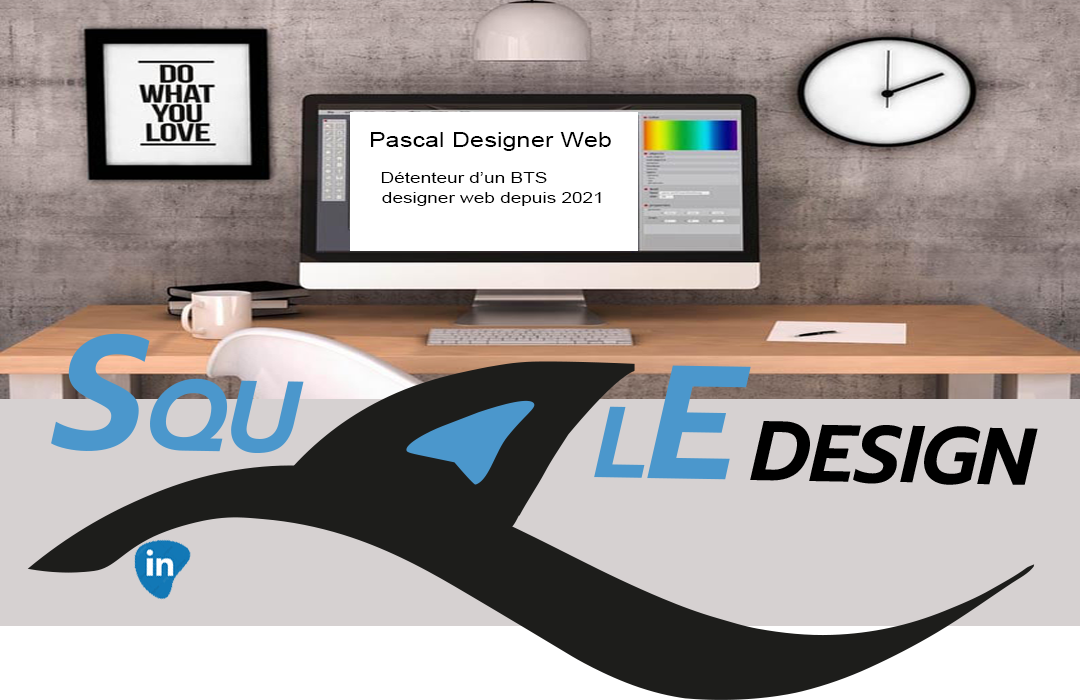
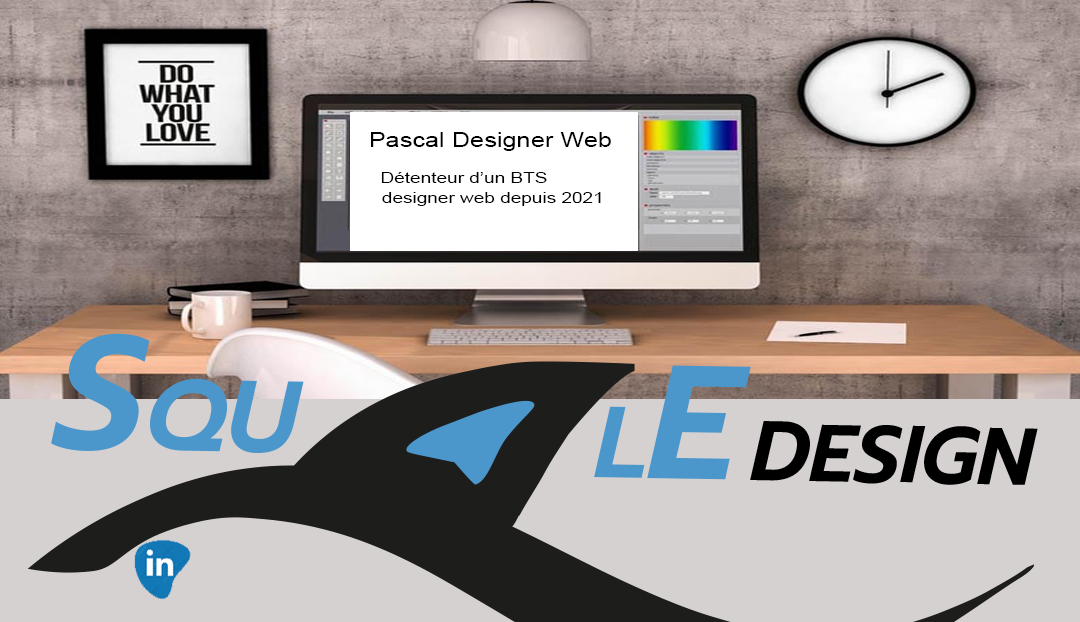
maj

diff --git a/Présentation mises en oeuvres/css/style.min.css b/Présentation mises en oeuvres/css/style.min.css
@@ -1,2 +1,2 @@
-*{-webkit-box-sizing:border-box;box-sizing:border-box}* img{margin:0%;width:100%}* a{text-decoration:none}* p{margin:0%}* h1,* h2{color:#4C98CC;font-family:'Prompt', sans-serif}@media (min-width: 360px) and (max-width: 800px){body{margin:0%;padding:0%;font-family:'EB Garamond', sans-serif}body .nav{background-color:#d6d1d1;height:15vh}body .nav .navbar{position:relative;display:-webkit-box;display:-ms-flexbox;display:flex;-webkit-box-pack:justify;-ms-flex-pack:justify;justify-content:space-between;-webkit-box-align:center;-ms-flex-align:center;align-items:center;height:15vh}body .nav .navbar .logocodes{display:-webkit-box;display:-ms-flexbox;display:flex;-webkit-box-orient:vertical;-webkit-box-direction:normal;-ms-flex-direction:column;flex-direction:column;margin-left:10px}body .nav .navbar .logocodes .logocode{width:35px;height:35px}body .nav .navbar .logocentre{width:150px;height:55px}body .nav .navbar .logocentre #monlogo{width:100%;margin:auto;height:100%}body .nav .navbar #burger{width:30px;height:20px;cursor:pointer}body .nav .navbar #burger #iconeburger{width:100%;height:100%}body .nav .navbar .liste{display:none;z-index:10000;position:absolute;list-style:none;margin:0%;padding:0%;left:0%;right:0%;top:15vh}body .nav .navbar .liste a{color:black}body main .section1{display:-ms-grid;display:grid;-ms-grid-columns:(1fr)[2];grid-template-columns:repeat(2, 1fr);margin-top:5%;margin-left:5%;margin-bottom:5%}body main .section1 .textillus{-ms-grid-column:1;grid-column-start:1;grid-column-end:3}body main .section1 .blockwp div{display:-webkit-box;display:-ms-flexbox;display:flex;-webkit-box-align:center;-ms-flex-align:center;align-items:center;-ms-flex-pack:distribute;justify-content:space-around}body main .section1 .blockwp #logowp{width:40px;height:40px}body main .section1 .blockwp #titrecms{font-style:italic;font-family:'Prompt', sans-serif;color:#4C98CC;font-size:1em}body main .section1 .blockwp #lettre2cms{font-size:2rem}body main .section1 .blockwp #fincms{font-size:0.8em;color:black}body main .section2{display:-ms-grid;display:grid;-ms-grid-columns:(1fr)[2];grid-template-columns:repeat(2, 1fr);margin-top:5%;margin-left:5%;margin-bottom:5%}body main .section2 .textillus{-ms-grid-column:1;grid-column-start:1;grid-column-end:3}body main .section2 #titredesign{font-style:italic;text-align:center;font-family:'Prompt', sans-serif;color:#4C98CC;font-size:1.1em}body main .section2 #titredesign #lettre2design{font-size:2rem}body main .section2 #titredesign #findesign{color:black}body main .section3 #titrerea{font-style:italic;text-align:center;font-family:'Prompt', sans-serif;color:#4C98CC;background-color:#d6d1d1}body main .section3 #titrerea #lettre2rea{font-size:2rem}body main .section3 #titrerea #finrea{color:black}body main .card{text-align:center;padding:10px;margin:5px;height:60vh;background-color:#d6d1d1;border:solid 3px #4C98CC}body main .card #acs{width:100%}body main .card .imgcard{margin:auto;width:80%}body main .card .imgcard img{width:100%}body main .card .fincard{color:black}body .foot{margin:0%;padding:0%}body .foot .imgfoot #imagefooter{margin:0%;padding:0%;width:100%}}@media (min-width: 801px) and (max-width: 1200px){body{margin:0%;padding:0%;font-family:'EB Garamond', sans-serif}body .nav{background-color:#d6d1d1;height:15vh}body .nav .navbar{position:relative;display:-webkit-box;display:-ms-flexbox;display:flex;-webkit-box-pack:justify;-ms-flex-pack:justify;justify-content:space-between;-webkit-box-align:center;-ms-flex-align:center;align-items:center;height:15vh}body .nav .navbar .logocodes{display:-webkit-box;display:-ms-flexbox;display:flex;-webkit-box-orient:vertical;-webkit-box-direction:normal;-ms-flex-direction:column;flex-direction:column;margin-left:10px}body .nav .navbar .logocodes .logocode{width:35px;height:35px}body .nav .navbar .logocentre{width:150px;height:55px}body .nav .navbar .logocentre #monlogo{width:100%;margin:auto;height:100%}body .nav .navbar #burger{width:30px;height:20px;cursor:pointer}body .nav .navbar #burger #iconeburger{width:100%;height:100%}body .nav .navbar .liste{display:none;z-index:10000;position:absolute;list-style:none;margin:0%;padding:0%;left:0%;right:0%;top:15vh}body .nav .navbar .liste a{color:black}body main .section1{position:relative;display:-ms-grid;display:grid;-ms-grid-columns:(1fr)[2];grid-template-columns:repeat(2, 1fr);margin-top:5%;margin-left:5%;margin-bottom:5%}body main .section1 .textillus{position:absolute;top:35%;margin:10px;-ms-grid-column:2;grid-column-start:2;grid-column-end:3}body main .section1 .blockwp div{width:80%;height:50%;display:-webkit-box;display:-ms-flexbox;display:flex;-webkit-box-align:center;-ms-flex-align:center;align-items:center;-ms-flex-pack:distribute;justify-content:space-around}body main .section1 .blockwp #logowp{width:40px;height:40px}body main .section1 .blockwp #titrecms{font-style:italic;font-family:'Prompt', sans-serif;color:#4C98CC;font-size:1em}body main .section1 .blockwp #lettre2cms{font-size:2rem}body main .section1 .blockwp #fincms{font-size:0.8em;color:black}body main .section2{position:relative;display:-ms-grid;display:grid;-ms-grid-columns:(1fr)[2];grid-template-columns:repeat(2, 1fr);margin-top:5%;margin-left:5%}body main .section2 .textillus{position:absolute;top:25%;margin:10px;-ms-grid-column:2;grid-column-start:2;grid-column-end:3}body main .section2 #titredesign{font-style:italic;text-align:center;font-family:'Prompt', sans-serif;color:#4C98CC;font-size:1.1em}body main .section2 #titredesign #lettre2design{font-size:2rem}body main .section2 #titredesign #findesign{color:black}body main .section3{padding:20px}body main .section3 #titrerea{margin-top:30px;margin-bottom:30px;font-style:italic;text-align:center;font-family:'Prompt', sans-serif;color:#4C98CC;background-color:#d6d1d1}body main .section3 #titrerea #lettre2rea{font-size:2rem}body main .section3 #titrerea #finrea{color:black}body main .section3 .card{text-align:center;margin-bottom:20px;padding:10px;height:60vh;background-color:#d6d1d1;border:solid 3px #4C98CC}body main .section3 .card #acs{width:100%}body main .section3 .card .imgcard{margin:auto;width:80%}body main .section3 .card .imgcard img{width:100%}body main .section3 .card .fincard{color:black}body .foot{background-image:url("../Image/footer.svg");margin:0%;padding:0%}body .foot .imgfoot #imagefooter{margin:0%;padding:0%;width:100%}}
+*{-webkit-box-sizing:border-box;box-sizing:border-box}* img{margin:0%;width:100%}* a{text-decoration:none}* p{margin:0%}* h1,* h2{color:#4C98CC;font-family:'Prompt', sans-serif}@media (min-width: 360px) and (max-width: 800px){body{margin:0%;padding:0%;font-family:'EB Garamond', sans-serif}body .nav{background-color:#d6d1d1;height:15vh}body .nav .navbar{position:relative;display:-webkit-box;display:-ms-flexbox;display:flex;-webkit-box-pack:justify;-ms-flex-pack:justify;justify-content:space-between;-webkit-box-align:center;-ms-flex-align:center;align-items:center;height:15vh}body .nav .navbar .logocodes{display:-webkit-box;display:-ms-flexbox;display:flex;-webkit-box-orient:vertical;-webkit-box-direction:normal;-ms-flex-direction:column;flex-direction:column;margin-left:10px}body .nav .navbar .logocodes .logocode{width:35px;height:35px}body .nav .navbar .logocentre{width:150px;height:55px}body .nav .navbar .logocentre #monlogo{width:100%;margin:auto;height:100%}body .nav .navbar #burger{width:30px;height:20px;cursor:pointer}body .nav .navbar #burger #iconeburger{width:100%;height:100%}body .nav .navbar .liste{display:none;z-index:10000;position:absolute;list-style:none;margin:0%;padding:0%;left:0%;right:0%;top:15vh}body .nav .navbar .liste a{color:black}body main .section1{display:-ms-grid;display:grid;-ms-grid-columns:(1fr)[2];grid-template-columns:repeat(2, 1fr);margin-top:5%;margin-left:5%;margin-bottom:5%}body main .section1 .textillus{-ms-grid-column:1;grid-column-start:1;grid-column-end:3}body main .section1 .blockwp div{display:-webkit-box;display:-ms-flexbox;display:flex;-webkit-box-align:center;-ms-flex-align:center;align-items:center;-ms-flex-pack:distribute;justify-content:space-around}body main .section1 .blockwp #logowp{width:40px;height:40px}body main .section1 .blockwp #titrecms{font-style:italic;font-family:'Prompt', sans-serif;color:#4C98CC;font-size:1em}body main .section1 .blockwp #lettre2cms{font-size:2rem}body main .section1 .blockwp #fincms{font-size:0.8em;color:black}body main .section2{display:-ms-grid;display:grid;-ms-grid-columns:(1fr)[2];grid-template-columns:repeat(2, 1fr);margin-top:5%;margin-left:5%;margin-bottom:5%}body main .section2 .textillus{-ms-grid-column:1;grid-column-start:1;grid-column-end:3}body main .section2 #titredesign{font-style:italic;text-align:center;font-family:'Prompt', sans-serif;color:#4C98CC;font-size:1.1em}body main .section2 #titredesign #lettre2design{font-size:2rem}body main .section2 #titredesign #findesign{color:black}body main .section3 #titrerea{font-style:italic;text-align:center;font-family:'Prompt', sans-serif;color:#4C98CC;background-color:#d6d1d1}body main .section3 #titrerea #lettre2rea{font-size:2rem}body main .section3 #titrerea #finrea{color:black}body main .card{text-align:center;padding:10px;margin:5px;height:60vh;background-color:#d6d1d1;border:solid 3px #4C98CC}body main .card #acs{width:100%}body main .card .imgcard{margin:auto;width:80%}body main .card .imgcard img{width:100%}body main .card .fincard{color:black}body .foot{margin:0%;padding:0%;width:100%}body .foot .imgfoot{margin:0%;padding:0%;width:100%}body .foot .imgfoot #imagefooter{margin:0%;padding:0%;width:100%}}@media (min-width: 801px) and (max-width: 1200px){body{margin:0%;padding:0%;font-family:'EB Garamond', sans-serif}body .nav{background-color:#d6d1d1;height:15vh}body .nav .navbar{position:relative;display:-webkit-box;display:-ms-flexbox;display:flex;-webkit-box-pack:justify;-ms-flex-pack:justify;justify-content:space-between;-webkit-box-align:center;-ms-flex-align:center;align-items:center;height:15vh}body .nav .navbar .logocodes{display:-webkit-box;display:-ms-flexbox;display:flex;-webkit-box-orient:vertical;-webkit-box-direction:normal;-ms-flex-direction:column;flex-direction:column;margin-left:10px}body .nav .navbar .logocodes .logocode{width:50px;height:50px}body .nav .navbar .logocentre{width:210px;height:70px}body .nav .navbar .logocentre #monlogo{width:100%;margin:auto;height:100%}body .nav .navbar #burger{width:10%;height:100%;cursor:pointer;position:relative}body .nav .navbar #burger #iconeburger{width:100%;height:100%;position:absolute;top:3% !important}body .nav .navbar .liste{display:none;z-index:10000;position:absolute;list-style:none;margin:0%;padding:0%;left:0%;right:0%;top:15vh}body .nav .navbar .liste a{color:black}body main .section1{position:relative;display:-ms-grid;display:grid;-ms-grid-columns:(1fr)[2];grid-template-columns:repeat(2, 1fr);margin-top:5%;margin-left:5%;margin-bottom:5%}body main .section1 .textillus{position:absolute;top:35%;margin:10px;-ms-grid-column:2;grid-column-start:2;grid-column-end:3}body main .section1 .blockwp div{width:80%;height:50%;display:-webkit-box;display:-ms-flexbox;display:flex;-webkit-box-align:center;-ms-flex-align:center;align-items:center;-ms-flex-pack:distribute;justify-content:space-around}body main .section1 .blockwp #logowp{width:40px;height:40px}body main .section1 .blockwp #titrecms{font-style:italic;font-family:'Prompt', sans-serif;color:#4C98CC;font-size:1em}body main .section1 .blockwp #lettre2cms{font-size:2rem}body main .section1 .blockwp #fincms{font-size:0.8em;color:black}body main .section2{position:relative;display:-ms-grid;display:grid;-ms-grid-columns:(1fr)[2];grid-template-columns:repeat(2, 1fr);margin-top:5%;margin-left:5%}body main .section2 .textillus{position:absolute;top:25%;margin:10px;-ms-grid-column:2;grid-column-start:2;grid-column-end:3}body main .section2 #titredesign{font-style:italic;text-align:center;font-family:'Prompt', sans-serif;color:#4C98CC;font-size:1.1em}body main .section2 #titredesign #lettre2design{font-size:2rem}body main .section2 #titredesign #findesign{color:black}body main .section3{padding:20px}body main .section3 #titrerea{margin-top:30px;margin-bottom:30px;font-style:italic;text-align:center;font-family:'Prompt', sans-serif;color:#4C98CC;background-color:#d6d1d1}body main .section3 #titrerea #lettre2rea{font-size:2rem}body main .section3 #titrerea #finrea{color:black}body main .section3 .card{text-align:center;margin-bottom:20px;padding:10px;height:60vh;background-color:#d6d1d1;border:solid 3px #4C98CC}body main .section3 .card #acs{width:100%}body main .section3 .card .imgcard{margin:auto;width:80%}body main .section3 .card .imgcard img{width:100%}body main .section3 .card .fincard{color:black}body .foot{background-image:url("../Image/footer.svg");margin:0%;padding:0%}body .foot .imgfoot #imagefooter{margin:0%;padding:0%;width:100%}}
 /*# sourceMappingURL=style.min.css.map */

diff --git a/Présentation mises en oeuvres/scss/style.scss b/Présentation mises en oeuvres/scss/style.scss
@@ -27,6 +27,8 @@
         margin: 0%;
         padding: 0%;
         font-family: 'EB Garamond', sans-serif;
+       
+        
 
         // Header
 
@@ -225,13 +227,19 @@
         .foot {
             margin: 0%;
             padding: 0%;
+            width: 100%;
+           
 
             .imgfoot {
-
+                margin: 0%;
+                padding: 0%;
+                width: 100%;
                 #imagefooter {
                     margin: 0%;
                     padding: 0%;
                     width: 100%;
+                  
+                    
                 }
             }
         }
@@ -272,15 +280,15 @@
 
 
                     .logocode {
-                        width: 35px;
-                        height: 35px;
+                        width: 50px;
+                        height: 50px;
 
                     }
                 }
 
                 .logocentre {
-                    width: 150px;
-                    height: 55px;
+                    width: 210px;
+                    height: 70px;
 
                     #monlogo {
                         width: 100%;
@@ -290,14 +298,19 @@
                 }
 
                 #burger {
-                    width: 30px;
-                    height: 20px;
+                    width: 10%;
+                    height: 100%;
                     cursor: pointer;
+                    position: relative;
 
 
                     #iconeburger {
                         width: 100%;
                         height: 100%;
+                        position: absolute;
+                        top: 3% !important;
+                        
+                        
                     }
                 }
 

diff --git a/Présentation mises en oeuvres/css/style.css b/Présentation mises en oeuvres/css/style.css
@@ -196,6 +196,12 @@
   body .foot {
     margin: 0%;
     padding: 0%;
+    width: 100%;
+  }
+  body .foot .imgfoot {
+    margin: 0%;
+    padding: 0%;
+    width: 100%;
   }
   body .foot .imgfoot #imagefooter {
     margin: 0%;
@@ -238,12 +244,12 @@
     margin-left: 10px;
   }
   body .nav .navbar .logocodes .logocode {
-    width: 35px;
-    height: 35px;
+    width: 50px;
+    height: 50px;
   }
   body .nav .navbar .logocentre {
-    width: 150px;
-    height: 55px;
+    width: 210px;
+    height: 70px;
   }
   body .nav .navbar .logocentre #monlogo {
     width: 100%;
@@ -251,13 +257,16 @@
     height: 100%;
   }
   body .nav .navbar #burger {
-    width: 30px;
-    height: 20px;
+    width: 10%;
+    height: 100%;
     cursor: pointer;
+    position: relative;
   }
   body .nav .navbar #burger #iconeburger {
     width: 100%;
     height: 100%;
+    position: absolute;
+    top: 3% !important;
   }
   body .nav .navbar .liste {
     display: none;

diff --git a/Présentation mises en oeuvres/index.html b/Présentation mises en oeuvres/index.html
@@ -111,7 +111,7 @@
     </main>
     <footer class="foot">
         <div class="imgfoot">
-            <!-- <img src="Image/footer.svg" alt="pied de page" id=imagefooter> -->
+            <img src="Image/footer.png" alt="pied de page" id=imagefooter>
         </div>
     </footer>
 
